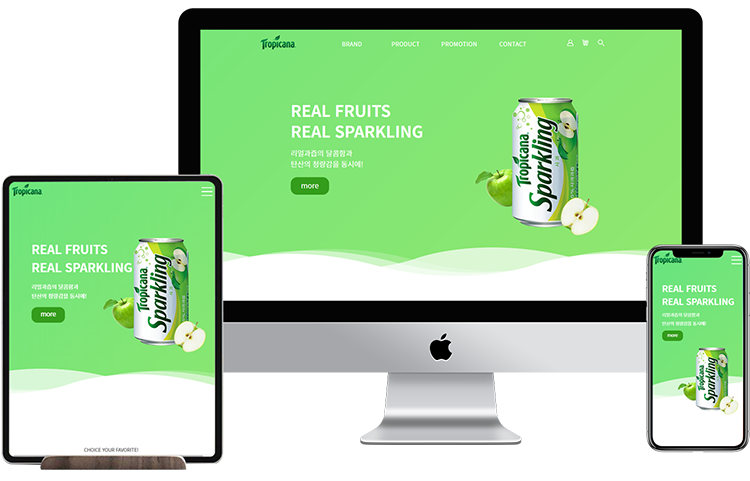
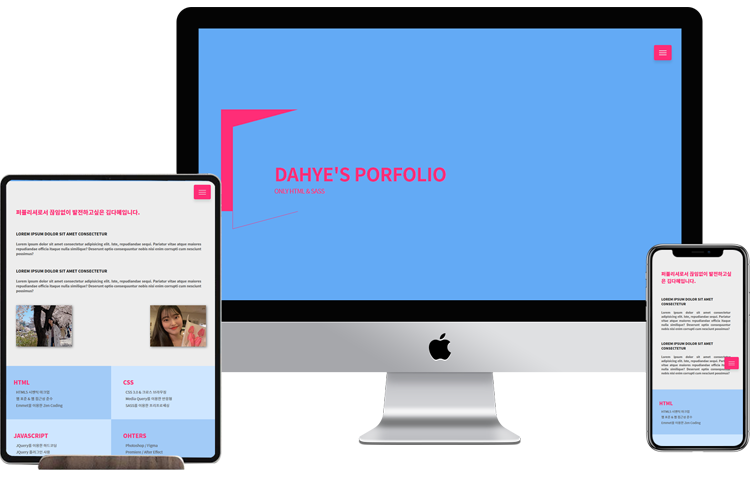
프로젝트 추가 및 순서 변경

diff --git a/index.html b/index.html
@@ -108,7 +108,7 @@
                     <li>
                         <p>한국형 웹 콘텐츠 접근성 지침(KWCAG 2.1) 준수</p>
                         <p>시멘틱 마크업을 통한 의미있는 구조 설계</p>
-                        <p>Media Query를 이용한 반응형 사이트 구축</p>
+                        <p>반응형 & 적응형 웹사이트 구축</p>
                         <p>CSS 3.0 &amp; 크로스브라우징</p>
                         <p>SASS를 이용한 프리프로세싱</p>
                     </li>
@@ -116,15 +116,15 @@
                     <!--javascript 텍스트 내용-->
                     <li>
                         <p>비동기 통신(ajax)에 대한 이해</p>
-                        <p>jQuery DOM을 이용한<br>메인 메뉴, 반응형 비주얼 슬라이드, <br>2depth animation 등 구현</p>
+                        <p>jQuery DOM을 이용한<br>메인 메뉴, 반응형 비주얼 슬라이드, <br>2depth menu animation 등 구현</p>
                     </li>
 
                     <!--others 텍스트 내용-->
                     <li>
                         <p>UI / UX에 대한 이해</p>
                         <p>Photoshop, Figma를  활용한 웹 사이트 시안 제작</p>
-                        <p>Premiere를 활용한 여행영상 제작</p>
-                        <p>After Effect를 활용한 모션 인포그래픽 제작</p>
+                        <p>Premiere, After Effect를 활용한 영상 제작</p>
+                        <p>Github 관리</p>
                     </li>
                 </ul>
             </div>
@@ -161,17 +161,35 @@
 
 
         <div id="work_list">
-            <!--포트폴리오1-->
+            <!--프로필페이지2 포트폴리오-->
             <div id="work1">
+                <!--포트폴리오 목업 왼쪽 사진 영역-->
+                <div class="work_left">
+                    <img src="img/mockup_01.png" alt="프로필 버전2 사이트">
+                </div>
+
+
+                <!--포트폴리오 오른쪽 텍스트 영역-->
+                <div class="work_right">
+                    <div class="work_txtbox">
+                        <p class="work_subtit"><a href="#">Profile ver.2</a></p>
+                        <p class="txt">오직 HTML과 CSS만을 이용하여 구현한 사이트입니다. <mark>JQUERY없이</mark> checkbox속성과 animation속성을 이용하여 메인메뉴를 구성하였고, 모든 스타일은 <mark>SCSS</mark>를 사용하여 유지보수가 용이하도록 구현하였습니다.</p>
+                        <span class="visit_btn"><a href="http://dahyeprofile.dothome.co.kr/" title="프로필 버전2 바로가기" target="_blank">VIEW SITE</a></span>
+                    </div>
+                </div>
+            </div>
+
+            <!--트로피카나 포트폴리오-->
+            <div id="work2">
                 <!--포트폴리오 왼쪽 목업 사진 영역-->
                 <div class="work_left">
-                    <img src="img/mockup_01.png" alt="트로피카나 리뉴얼 사이트">
+                    <img src="img/mockup_02.png" alt="트로피카나 리뉴얼 사이트">
                 </div>
 
                 <!--포트폴리오 오른쪽 텍스트 영역-->
                 <div class="work_right">
                     <div class="work_txtbox">
-                        <p class="work_subtit"><a href="#">Webstandard Site</a></p>
+                        <p class="work_subtit"><a href="#">Tropicana</a></p>
                         <p class="txt">기존에 없던 사이트를 기획부터, 디자인,코딩까지 <mark>100% 창작</mark>한
                             표준형 웹사이트입니다. <mark>웹 접근성</mark>을 고려하여 <mark>skip 메뉴</mark>를
                             삽입하였고, 메인페이지와 서브페이지는 반복되는 부분은 <mark>인클루드</mark>를 통해 효율적으로 코딩했습니다.</p>
@@ -180,18 +198,38 @@
                 </div>
             </div>
 
-            <!--포트폴리오2-->
-            <div id="work2">
+            <!-- 케이투 포트폴리오 -->
+            <div id="work3">
                 <!--포트폴리오 목업 왼쪽 사진 영역-->
                 <div class="work_left">
-                    <img src="img/mockup_02.png" alt="벤자민무어 리뉴얼 사이트">
+                    <img src="img/mockup_03.png" alt="K2 Korea 사이트">
                 </div>
 
 
                 <!--포트폴리오 오른쪽 텍스트 영역-->
                 <div class="work_right">
                     <div class="work_txtbox">
-                        <p class="work_subtit"><a href="#">Renewal Site</a></p>
+                        <p class="work_subtit"><a href="#">K2 Korea</a></p>
+                        <p class="txt">해상도 980px이상부터 반응형이고, 980px이하부터는 모바일 버전으로 열리는 <mark>적응형 웹사이트</mark>입니다. 또한, PC버전에서는 각 서브메뉴의 높이에 따라 <mark>유동적으로 변화하는 2 depth navigation</mark>을 구현하였습니다.</p>
+                        <span class="visit_btn"><a href="http://k2korea.dothome.co.kr/" title="K2 Korea 바로가기" target="_blank">VIEW SITE</a></span>
+                    </div>
+                </div>
+            </div>
+
+            
+
+            <!--벤자민무어 포트폴리오-->
+            <div id="work4">
+                <!--포트폴리오 목업 왼쪽 사진 영역-->
+                <div class="work_left">
+                    <img src="img/mockup_04.png" alt="벤자민무어 리뉴얼 사이트">
+                </div>
+
+
+                <!--포트폴리오 오른쪽 텍스트 영역-->
+                <div class="work_right">
+                    <div class="work_txtbox">
+                        <p class="work_subtit"><a href="#">BenjaminMoore</a></p>
                         <p class="txt">모바일 버전에서는 사용자의 편의성을 고려하여,
                             터치에 반응하는 <mark>swiper 플러그인</mark>을 연결하였으며,
                             이 외에 PC버전 메뉴, 모바일 아코디언 메뉴,
@@ -202,18 +240,18 @@
                 </div>
             </div>
 
-            <!--포트폴리오3-->
-            <div id="work3">
+            <!--현대카드 포트폴리오-->
+            <div id="work5">
                 <!--포트폴리오 목업 왼쪽 사진 영역-->
                 <div class="work_left">
-                    <img src="img/mockup_03.png" alt="현대카드 리뉴얼 사이트">
+                    <img src="img/mockup_05.png" alt="현대카드 리뉴얼 사이트">
                 </div>
 
 
                 <!--포트폴리오 오른쪽 텍스트 영역-->
                 <div class="work_right">
                     <div class="work_txtbox">
-                        <p class="work_subtit"><a href="#">Renewal Site</a></p>
+                        <p class="work_subtit"><a href="#">Hyundai Card</a></p>
                         <p class="txt">풀페이지 디자인으로 반응형이 되지 않는 사이트를
                             Media Query를 통해 반응형으로 리뉴얼 하였고,
                             배너 슬라이드를 <mark>숫자형 페이저</mark>와 <mark>전후 버튼</mark>이 모두
@@ -223,23 +261,7 @@
                 </div>
             </div>
 
-            <!--포트폴리오4-->
-            <div id="work4">
-                <!--포트폴리오 목업 왼쪽 사진 영역-->
-                <div class="work_left">
-                    <img src="img/mockup_04.png" alt="프로필 버전2 사이트">
-                </div>
-
-
-                <!--포트폴리오 오른쪽 텍스트 영역-->
-                <div class="work_right">
-                    <div class="work_txtbox">
-                        <p class="work_subtit"><a href="#">Profile ver.2</a></p>
-                        <p class="txt">오직 HTML과 CSS만을 이용하여 구현한 사이트입니다. <mark>JQUERY없이</mark> checkbox속성과 animation속성을 이용하여 메인메뉴를 구성하였고, 모든 스타일은 <mark>SCSS</mark>를 사용하여 유지보수가 용이하도록 구현하였습니다.</p>
-                        <span class="visit_btn"><a href="http://dahyeprofile.dothome.co.kr/" title="현대카드 바로가기" target="_blank">VIEW SITE</a></span>
-                    </div>
-                </div>
-            </div>
+            
         </div>
     </section>
 

diff --git a/css/mediaquery.css b/css/mediaquery.css
@@ -22,10 +22,10 @@
     html,body{font-size: 13px;}
     section#about{height: 1540px;}
     section#skills{height: 3080px;}
-    section#work{height: 3850px;}/*수정부분 : 770*(포폴개수+1)*/
+    section#work{height: 4620px;}/*수정부분 : 770*(포폴개수+1)*/
     section#contact{height: 1540px;}
     #skills1{height: 2310px;}
-    #main,.contents_tit,#about1,#work1,#work2,#work3,#work4,#contact1{/*수정부분 : 포폴 아이디 추가*/
+    #main,.contents_tit,#about1,#work1,#work2,#work3,#work4,#work5,#contact1{/*수정부분 : 포폴 아이디 추가*/
             height: 770px;
         }
     
@@ -40,7 +40,7 @@
     #tit_list li:nth-child(1) .skills_subtit a:after,#tit_list li:nth-child(2) .skills_subtit a:after{top: 135px;}
     
     /*work*/
-    #work_list{height:3080px ;} /*수정부분 : 770*포폴개수*/
+    #work_list{height:3850px ;} /*수정부분 : 770*포폴개수*/
     .work_txtbox .work_subtit a{font-size: 39px;}
     
     /*contact 데코 요소*/

diff --git a/css/style.css b/css/style.css
@@ -756,7 +756,7 @@ section#skills .contents_tit h2 a:before{
 
 section#work {/*수정부분 : 970*포폴개수+970*/
     width: 100%;
-    height: 4850px;
+    height: 5820px;
 }
 
 /*------------work 제목 그림자------------*/
@@ -777,10 +777,10 @@ section#work .contents_tit h2 a:before{
 
 #work_list{
     width: 100%;
-    height: 3880px; /*수정부분 : 970*포폴개수*/
+    height: 4850px; /*수정부분 : 970*포폴개수*/
 }
 
-#work1,#work2,#work3,#work4 {  /*수정부분 : 포폴 아이디 추가*/
+#work1,#work2,#work3,#work4,#work5 {  /*수정부분 : 포폴 아이디 추가*/
     position: relative;
     width: 100%;
     height: 970px;

diff --git a/js/half_scroll.js b/js/half_scroll.js
@@ -7,10 +7,16 @@ $(window).load(function () {
     var titLiNum = titLi.size(); //제목 리스트 Li 개수
     var txtLi = $(txt_list).children(); // 텍스트 리스트 Li
     var idx = 0;
-    var windowWidth = $(window).width();
+    var windowWidth
 
 
+    Reset();
     inEvent();
+
+    function Reset() { //window사이즈를 측정해주는 함수
+        windowWidth = $(window).width();
+    }
+
 
     function inEvent() { //이벤트 적용 함수
         $(window).on('resize', Reset);
